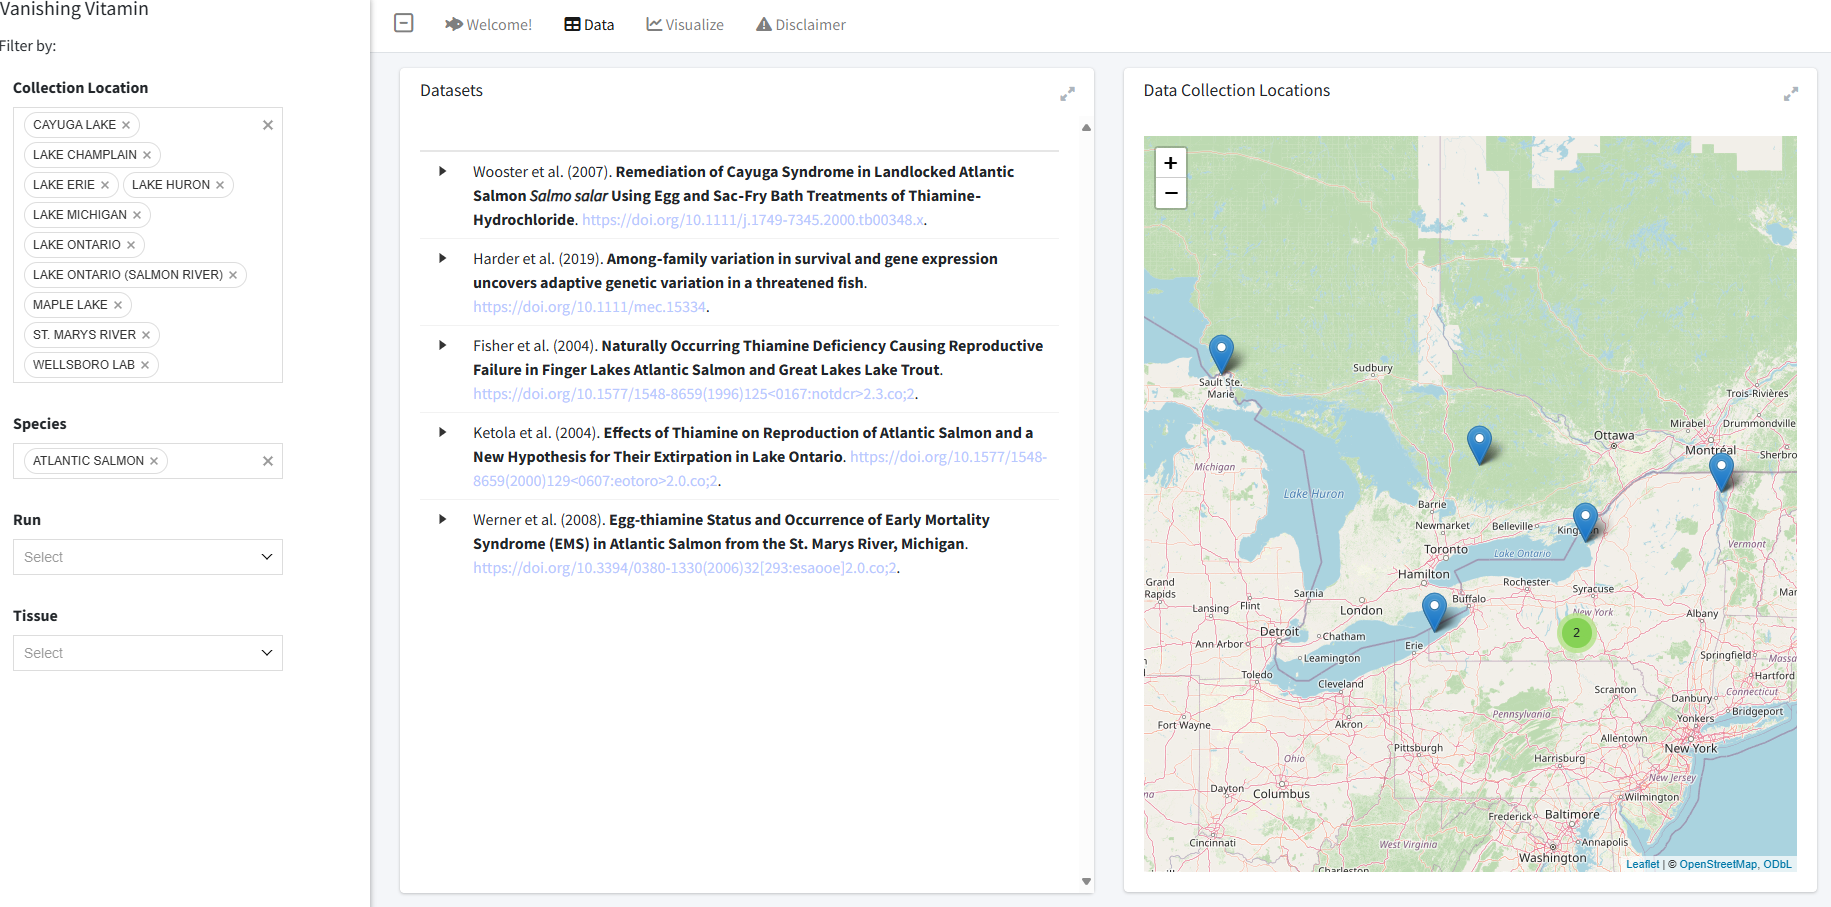
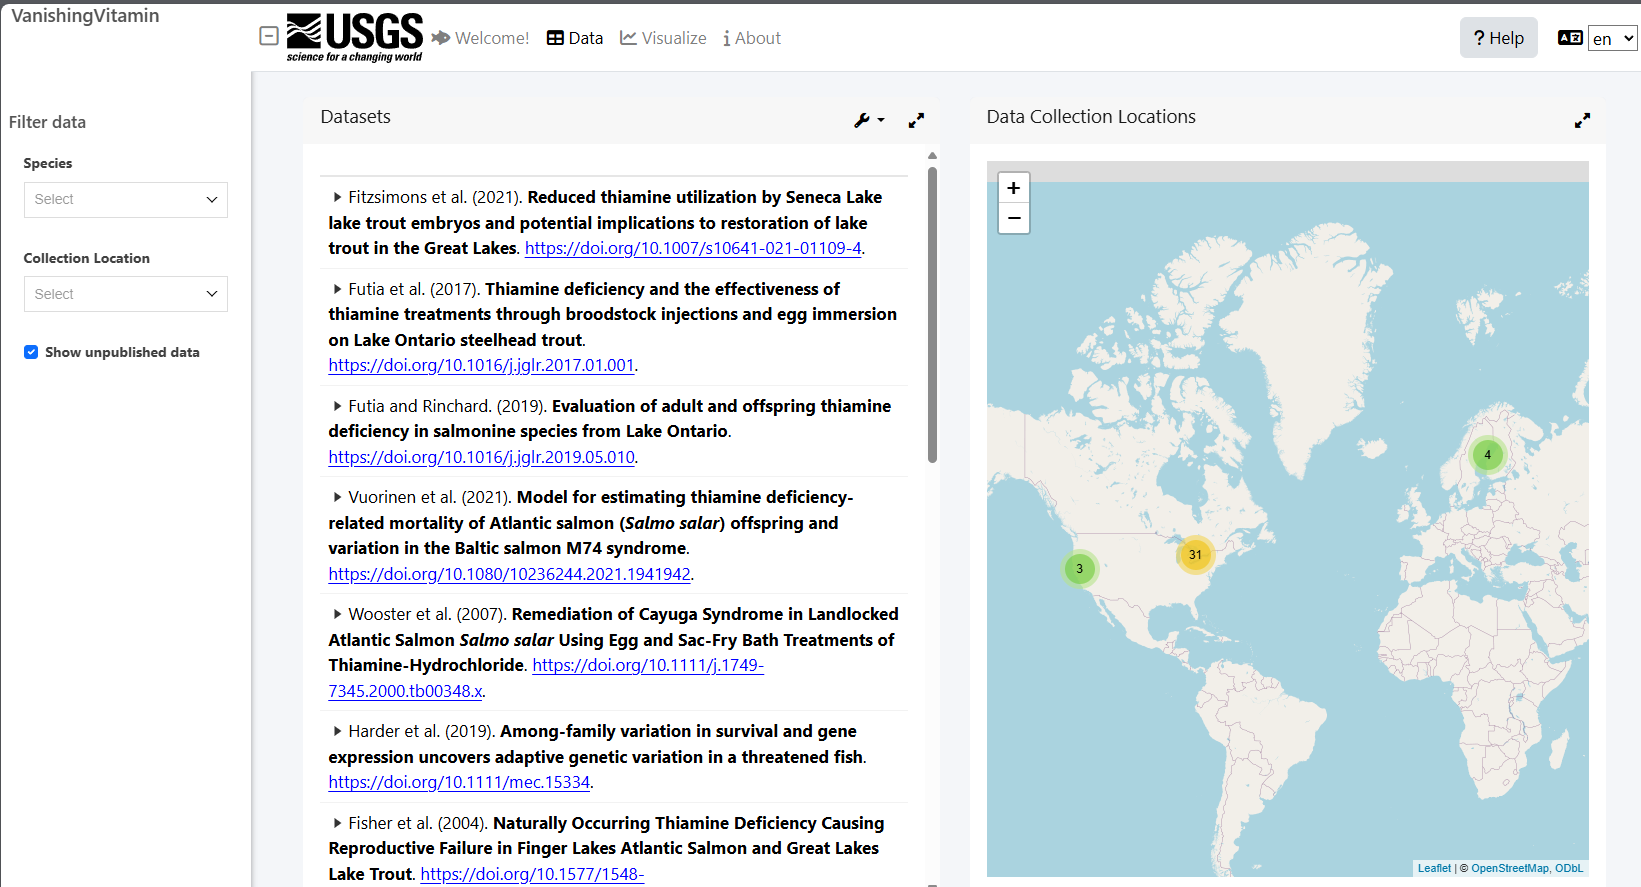
Update README

diff --git a/README.md b/README.md
@@ -1,167 +1,217 @@
 ![](USGS_ID_black.png)
 
-# VanishingVitamin Thiamin Deficiency Complex app
+# VanishingVitamin – Thiamine Deficiency Complex App
 
-**Authors**: Joseph Zemmels, Matthew Futia, Freya Rowland, Miles Davis
+**Authors:** Joseph Zemmels, Matthew Futia, Freya Rowland, Miles Daniels  
+**Contact:** Joseph Zemmels (<jzemmels@usgs.gov>)  
+**Origin / Version Year:** 2025  
+**DOI / IPDS:** in progress
 
-**Point of contact**: Joseph Zemmels (<jzemmels@usgs.gov>)
+---
 
-**Year of Origin**: 2025
+## Overview
 
-**Year of Version**: 2025
+Thiamine Deficiency Complex (TDC) threatens the stability and persistence of wildlife populations.
+This Shiny application provides a publicly accessible, interactive database of thiamine concentrations and mortality in salmonids.
 
-**Digital Object Identifier (DOI)**: in-progress
+### App Features
+* **Welcome tab** – Background and usage info.
+* **Data tab** – Table and map of published thiamine data, filterable via sidebar controls.  
+  ![](./data_tab_screenshot.png){width="55%"}
+* **Visualize tab** – Interactive scatterplot of thiamine concentration vs. mortality.  
+  You can also upload and plot your own data.  
+  ![](./visualize_tab_screenshot.png){width="55%"}
 
-**USGS Information Porudct Data System (IPDS) no.**: in-progress
+---
 
-**Statement of Need**: Thiamin Deficiency Complex (TDC) is a global threat to the stability and persistence of wildlife populations. 
-The purpose of this application is to assemble a publicly accessible and interactive database on Thiamin Deficiency Complex in salmonids.
+## Tech Stack
 
-### Functionality 
+* **Language:** [R](https://cloud.r-project.org/)  
+* **IDE:** [RStudio](https://posit.co/download/rstudio-desktop/)  
+* **Version control:** [git](https://git-scm.com/)  
+* **Helpful primer:** [Happy Git with R](https://happygitwithr.com/)
 
-The app summarizes available published data of thiamin concentration and mortality for various species, locations, and runs.
+This README has separate guidance for [Users](#users), [Reviewers](#reviewers), and [Developers](#developers).
 
-* The "Welcome" tab provides background and usage information for the application.
+---
 
-* The "Data" tab summarizes published thiamin data in a table and map. The map shows the collection location of data sets. You can use the inputs in the sidebar to filter which data sets are shown in this tab.
+## Users
 
-![](./data_tab_screenshot.png)
+Access the app at **<https://rconnect.usgs.gov/vanishing-vitamin-app/>** – no installation required.
 
-* The "Visualize" tab shows an interactive scatterplot of thiamin concentration and mortality rate. You can use the inputs in the sidebar to filter data displayed in the scatterplot. You can also add your own data to the scatterplot using the "Visualize your own data" tab.
+---
 
-![](./visualize_tab_screenshot.png)
+## Reviewers
 
-------------------------------------------------------------------------
+Thank you for providing feedback!
 
-The code in this repository was mostly written in the [R](https://cloud.r-project.org/) programming language within the [RStudio](https://posit.co/download/rstudio-desktop/) integrated development environment (IDE).
-It uses [git](https://git-scm.com/) for version control.
-See [Happy Git with R](https://happygitwithr.com/) for an R-centric introduction to git.
+### Run the app locally
+1. Install [R](https://cloud.r-project.org/) and [RStudio](https://posit.co/download/rstudio-desktop/).  
+2. Install [git](https://git-scm.com/).  
+3. Clone the repo:
+```bash
+git clone https://github.com/VanishingVitamin/tdc_shiny_app.git
+```
+(SSH users: `git clone git@github.com:VanishingVitamin/tdc_shiny_app.git`)
 
-The following sections cover instructions for accessing the app and interacting with the repository as a [User](https://github.com/VanishingVitamin/tdc_shiny_app?tab=readme-ov-file#im-a-user-accessing-the-app), [Reviewer](https://github.com/VanishingVitamin/tdc_shiny_app?tab=readme-ov-file#im-a-reviewer-providing-feedback), and [Developer](https://github.com/VanishingVitamin/tdc_shiny_app?tab=readme-ov-file#im-a-developer-making-changes).
+4. Open `tdc_shiny_app.Rproj` in RStudio.
+5. Install **devtools** in R:
+```r
+install.packages("devtools")
+```
+6. Install the package:
+```r
+devtools::install(".")
+```
+(**Note:** if install fails due to missing packages, try running `devtools::install_deps()`.)
 
-## I'm a user (accessing the app)
+7. Launch the app:
+```r
+vanishingVitamin::launch_app()
+```
 
-Great, welcome!
-There are a few options for accessing the application.
+### Code review
+Major changes use GitHub [pull requests](https://docs.github.com/en/pull-requests).
+See [Reviewing proposed changes](https://docs.github.com/en/pull-requests/collaborating-with-pull-requests/reviewing-changes-in-pull-requests/reviewing-proposed-changes-in-a-pull-request) and [Better, faster code reviews](https://github.com/mawrkus/pull-request-review-guide) for tips.
 
-### I don't want to use R
+---
 
-If you are a USGS employee, then you can access the app at <https://rconnect.chs.usgs.gov/vanishing-vitamin-app/>.
-At the moment, non-USGS employees must follow the "I can use R" instructions below to access the app.
+## Developers
 
-### I can use R
+Welcome!
+Follow the **“Run the app locally”** steps above first.
 
-If you can use R and want to run the app locally, then complete the following steps.
+### App Structure
+The Shiny app lives inside an R package called **`vanishingVitamin`**. 
+Launch with `vanishingVitamin::launch_app()`.
 
-1. Ensure you have [R](https://cloud.r-project.org/) installed. We also recommend you use the [RStudio](https://posit.co/download/rstudio-desktop/) development environment.
+Key files in `R/`:
 
-2. Ensure you have [git](https://git-scm.com/) installed.
+* **app_ui.R** – UI definition (`bs4Dash::dashboardPage()`).
+* **app_server.R** – Main server logic, split into `data_tab_server.R`, `visualize_tab_server.R`, and `translation_server.R`.
+* **app_theme.R** – Custom theme (`fresh::create_theme()`).
+* **run_app.R** – Source for `launch_app()`.
+* **publish_app.R** – Publishes to [Posit Connect](https://rconnect.usgs.gov/vanishing-vitamin-app/).
+* **datasets.R** – Package-data documentation.
+* **globals.R** – Misc. variables to suppress R warnings.
 
-3. Clone the repository one of the following ways:
-    * `git clone https://github.com/VanishingVitamin/tdc_shiny_app.git` over HTTPS, 
-    * `git clone git@github.com:VanishingVitamin/tdc_shiny_app.git` over SSH (requires SSH key), 
-    * or whatever your favorite way is from the URL <https://github.com/VanishingVitamin/tdc_shiny_app>.
+Reload the package while developing with `Ctrl/Cmd + Shift + L` or `devtools::load_all()`.
 
-4. Open the `tdc_shiny_app.Rproj` file to open the Shiny R project in RStudio.
+Helpful references:
 
-5. If you haven't done so already, install the `devtools` R package with `install.packages("devtools")`.
+* [Mastering Shiny: Packaging Apps](https://mastering-shiny.org/scaling-packaging.html)  
+* [R Packages – Development Workflow](https://r-pkgs.org/workflow101.html)
 
-6. Run `devtools::install(".")` in your R Console to install the `vanishingVitamin` R package locally.
+---
 
-7. Once the install is complete, run `vanishingVitamin::launch_app()` which should trigger the app to launch.
+### Updating Data
+The package exports three datasets:
 
-## I'm a reviewer (providing feedback)
+| Dataset | Source script | Notes |
+|--------|--------------|------|
+| `tdc_data` | `inst/construct_tdc_dataset.R` | Cleaned data from [source spreadsheet](https://docs.google.com/spreadsheets/d/1TX5lkpAsdurQlWQoNAmKWHv4WBoPwjmq/edit?usp=sharing). |
+| `citations` | `inst/construct_citations_metadata.R` | Metadata for `tdc_data`. |
+| `dose_response_params` | `inst/construct_dose_response_params.R` | Fitted dose-response parameters. |
 
-Wonderful, thank you for your feedback!
-Complete the steps in the "I can use R" section above to ensure you can run the app locally.
+Update workflow:
+1. Edit the relevant `inst/construct_*` script.
+2. Run the script to regenerate objects and write to `inst/misc_data/`.
+3. Verify the objects in R.
+4. Save into the package:
+```r
+usethis::use_data(tdc_data, overwrite = TRUE)
+```
+(repeat for the other datasets)
+5. Reload (`devtools::load_all()`) and launch to confirm.
+6. Update documentation in `R/datasets.R` if needed.
 
-Major changes to the application undergo a peer review process using GitHub [pull requests](https://docs.github.com/en/pull-requests/collaborating-with-pull-requests/proposing-changes-to-your-work-with-pull-requests/about-pull-requests) (PRs).
-A pull request is a proposal to merge a set of changes from one git [*branch*](https://git-scm.com/book/en/v2/Git-Branching-Branches-in-a-Nutshell) into another.
-As a reviewer, your job is to look at recent changes made to the application and provide feedback within the Pull Request.
+---
 
-See [Reviewing proposed changes in a pull request](https://docs.github.com/en/pull-requests/collaborating-with-pull-requests/reviewing-changes-in-pull-requests/reviewing-proposed-changes-in-a-pull-request) for an overview of the Pull Request review process.
-See [A practical guide for better, faster code reviews](https://github.com/mawrkus/pull-request-review-guide?tab=readme-ov-file#-for-the-reviewers) for helpful tips for writing good code reviews.
+### Updating Translations
 
+#### Welcome / Help Pages
 
-## I'm a developer (making changes)
+* Source `.qmd` files in `www/welcome_page/`  
+* Render to `.html` using RStudio’s **Render** button or (as an example):
 
-Awesome, we appreciate your help!
-Before we dive into the app structure, complete the steps in the "I can use R" section above to ensure you can run the app locally.
+```r
+quarto::quarto_render("www/welcome_page/welcome_page_es.qmd")
+```
 
-### I want to make changes to the app
+#### UI Labels
 
-#### How to update the application
+* Translation CSVs live in `www/translations/` (English → Spanish, Finnish, Swedish).
+* UI labels use `shiny::uiOutput()` and are rendered in `R/translation_server.R` with `shiny::renderUI()` and [`shiny.i18n`](https://appsilon.github.io/shiny.i18n/).
 
-The Shiny application is housed within an R package called `vanishingVitamin`.
-The user-facing function for launching the application is `vanishingVitamin::launch_app()`.
-There are a few internal-only helper functions called within `launch_app()` that define the necessary components of a Shiny app.
-Refer to the matching filenames in the `R/` folder for the source code of these helper functions.
+To add a new translatable label:
 
-- `app_ui()` defines the User Interface (`ui`) elements of the app. The function is a thin wrapper around a `bs4Dash::dashboardPage()` definition.
-- `app_server()` defines the `server` function used in the app. The value returned by this function is another function, which defines the app's server logic.
-- `app_theme()` defines the app's dashboard theme. It is a thin wrapper around a `fresh::create_theme()` call.
+1. Add a `uiOutput("tab_element_translation", inline = TRUE)` in `app_ui.R`.
+2. Add a matching `output$tab_element_translation` in `translation_server.R`.
+3. Add the translation to each CSV:
 
-Despite the R package infrastructure, you can make changes to the application as you would any Shiny app.
-Treat the `app_ui.R` and `app_server.R` scripts as you would `ui.R` and `server.R` scripts in regular Shiny app development.
-To view the app during development, you must load the package, by pressing `CTRL/CMD + SHIFT + L` in RStudio or running `devtools::load_all()` in the R Console, then run `launch_app()`.
+```
+New text,Texto nuevo
+```
 
-See [Mastering Shiny - Packages](https://mastering-shiny.org/scaling-packaging.html) for an overview of developing Shiny app R packages.
-See [R Packages](https://r-pkgs.org/), particularly [The Whole Game](https://r-pkgs.org/whole-game.html) and [Fundamental development workflows](https://r-pkgs.org/workflow101.html), for more information on developing R packages in-general.
+4. Reload and test.
 
-##### How to update data
+---
 
-The `vanishingVitamin` R package has two exported data sets.
+### Git/GitHub Workflow
+Typical branch-based workflow:
 
-1. The `tdc_data` data set contains data from [this Excel document](https://docs.google.com/spreadsheets/d/1TX5lkpAsdurQlWQoNAmKWHv4WBoPwjmq/edit?usp=sharing&ouid=106506252335393186387&rtpof=true&sd=true) that have been cleaned and standardized. 
-   See the `inst/construct_tdc_dataset.R` for the code used to create this data set. 
-2. The `citations` data set contains metadata for the citations associated with the data available in `tdc_data`. 
-   See `inst/construct_citations_metadata.R` for the code used to create this data set.
+1. Create a new branch:
+```bash
+git checkout -b my-feature
+```
+2. Make changes, commit frequently (`git add`, `git commit`).
+3. Pull remote updates if collaborating:
+```bash
+git pull
+```
+4. Push branch:
+```bash
+git push -u origin my-feature
+```
+5. Open a [Pull Request](https://docs.github.com/en/pull-requests).
+6. Request review, address feedback, and merge to `main`.
+7. Update local main:
+```bash
+git checkout main
+git pull
+```
 
-You can learn more about the contents of the data sets by their doc pages -- run `?vanishingVitamin::tdc_data` and `?vanishingVitamin::citations`.
-If you'd like to change either of these data sets, for example new data have been added to the source Excel document, complete the following steps:
+Reference: [Happy Git with R](https://happygitwithr.com/).
 
-1. Change the `inst/construct_tdc_dataset.R` or `inst/construct_citations_metadata.R` script to reflect the changes you want to make.
-2. Re-run the scripts to create `tdc_data` and `citations` objects in your R environment. 
-   If the scripts run fully, these objects should be saved to `inst/misc_data/tdc_data.csv` and `inst/misc_data/citations.rds` files, respectively.
-3. Inspect the `tdc_data` and `citations` objects to verify the desired changes.
-4. Run `usethis::use_data(tdc_data, overwrite = TRUE)` and `usethis::use_data(citations, overwrite = TRUE)`. 
-   This will overwrite the two data sets exported by the application.
-5. Run `devtools::load_all()`, then `vanishingVitamin::launch_app()`, then interact with the app to ensure it runs successfully.
-6. Update the data set documentation in the `R/data.R`, if significant changes were made that render that documentation outdated.
+---
 
-#### Creating Pull Requests
+### Publishing the app
 
-Major changes to the application undergo a peer review process using GitHub [pull requests](https://docs.github.com/en/pull-requests/collaborating-with-pull-requests/proposing-changes-to-your-work-with-pull-requests/about-pull-requests) (PRs).
-A pull request is a proposal to merge a set of changes from one git [*branch*](https://git-scm.com/book/en/v2/Git-Branching-Branches-in-a-Nutshell) into another.
-The `main` branch on this repository represents the canonical version of the application and serves as the "root" for the repository's branches.
+The app is publicly hosted on a platform called [Posit Connect](https://docs.posit.co/connect/user/) (ran by the same company that develops RStudio and the `tidyverse` packages).
+The following sections outlines an automated method for publishing updated to the app.
+If this fails, feel free to reach out to Joe (jzemmels@usgs.gov), who can publish the app using other means.
 
-As the developer, you are responsible for creating a pull request for any changes you make to the app.
-If you don't have a ton of experience using git or GitHub, I recommend reading through [Happy Git with R](https://happygitwithr.com/) for a friendly, R-centric introduction.
-GitHub pull requests support text formatting using Markdown syntax -- see [Basic Syntax](https://www.markdownguide.org/basic-syntax/) for an introduction.
+#### Automated app publishing via GitHub Actions 
 
-The typical workflow for making changes goes:
+The VanishingVitamin app is automatically deployed to Posit Connect when changes are merged into the `main` branch.
 
-1. [Create](https://git-scm.com/book/en/v2/Git-Branching-Basic-Branching-and-Merging) a new branch upon which changes will be made.
-2. Implement desired changes.
-3. [Stage](https://git-scm.com/docs/git-add) and [commit](https://git-scm.com/docs/git-commit) changes to the remote GitHub repository. 
-   Note that you can (and should!) stage and commit frequently while making changes. 
-   Think of this as `CTRL/CMD + S` to save your progress while developing. 
-4. (Recommended if collaborating on a branch) [Pull](https://git-scm.com/docs/git-pull) any commits pushed to the remote branch by someone else since you last pulled.
-5. [Push](https://git-scm.com/docs/git-push) your commits to the remote branch.
-    * If you're pushing a branch for the first time, run `git push -u origin <branch>` (`-u` is short for `--set-upstream`).
-6. [Open](https://docs.github.com/en/pull-requests/collaborating-with-pull-requests/proposing-changes-to-your-work-with-pull-requests/creating-a-pull-request) a Pull Request (PR) on GitHub, setting the branch upon which changes have been made as the "compare" branch and the desired target branch (likely the `main` branch) as the "base" branch.
-7. Fill out the PR template provided in this repository.
-8. Request a review from another person.
-9. Address any comments/feedback brought up during the review. 
-    * If the feedback is pertinent to the changes proposed in the PR (e.g., a new feature is bugged), you'll want to incorporate the feedback before merging the branch. 
-    * If the feedback is unrelated to the current changes, then you can decide whether you want to incorporate it into the current PR or document the feedback in a [GitHub issue](https://docs.github.com/en/issues/tracking-your-work-with-issues/using-issues/creating-an-issue#creating-an-issue-from-a-comment) for a future PR.
-10. Once the review is complete and feedback addressed, complete the pull request by [merging](https://docs.github.com/en/pull-requests/collaborating-with-pull-requests/incorporating-changes-from-a-pull-request/merging-a-pull-request).
-11. On your computer, run `git pull` then `git checkout main` to update your local version of the repository to match the remote GitHub version.
-12. Return to step 1. if making new changes.
+* A GitHub Actions workflow (`.github/workflows/deploy.yml`) runs on every push to `main`.
+* It installs dependencies, builds the package, and calls `R/publish_app.R` to deploy the app.
+* Deployment credentials (server URL, account name, API key) are stored securely as **GitHub repository secrets**, so personal credentials are never exposed in the repository.
 
-Note that creating PRs from a forked version of a repository is another common way to propose/merge changes into `main`.
-We will not be using this method, instead incorporating changes via branches.
+You do not need to run deployment manually.
+Any approved changes merged to `main` will trigger the workflow and update the live app automatically.
+
+For reference, the workflow uses the following secrets, which must be configured by maintainers (Joe) in GitHub:
+* `PC_SERVER` – Posit Connect server URL (e.g., `https://rconnect.usgs.gov`)
+* `PC_ACCOUNT` – Posit Connect account name
+* `PC_API_KEY` – API key for authentication
 
 ## Disclaimer
 
-This software is preliminary or provisional and is subject to revision. It is being provided to meet the need for timely best science. The software has not received final approval by the U.S. Geological Survey (USGS). No warranty, expressed or implied, is made by the USGS or the U.S. Government as to the functionality of the software and related material nor shall the fact of release constitute any such warranty. The software is provided on the condition that neither the USGS nor the U.S. Government shall be held liable for any damages resulting from the authorized or unauthorized use of the software.
+This software is preliminary or provisional and is subject to revision. 
+It is being provided to meet the need for timely best science. 
+The software has not received final approval by the U.S. Geological Survey (USGS). 
+No warranty, expressed or implied, is made by the USGS or the U.S. Government as to the functionality of the software and related material nor shall the fact of release constitute any such warranty. The software is provided on the condition that neither the USGS nor the U.S. Government shall be held liable for any damages resulting from the authorized or unauthorized use of the software.
+
+**Note:** formatting of this document was aided by ChatGPT.
